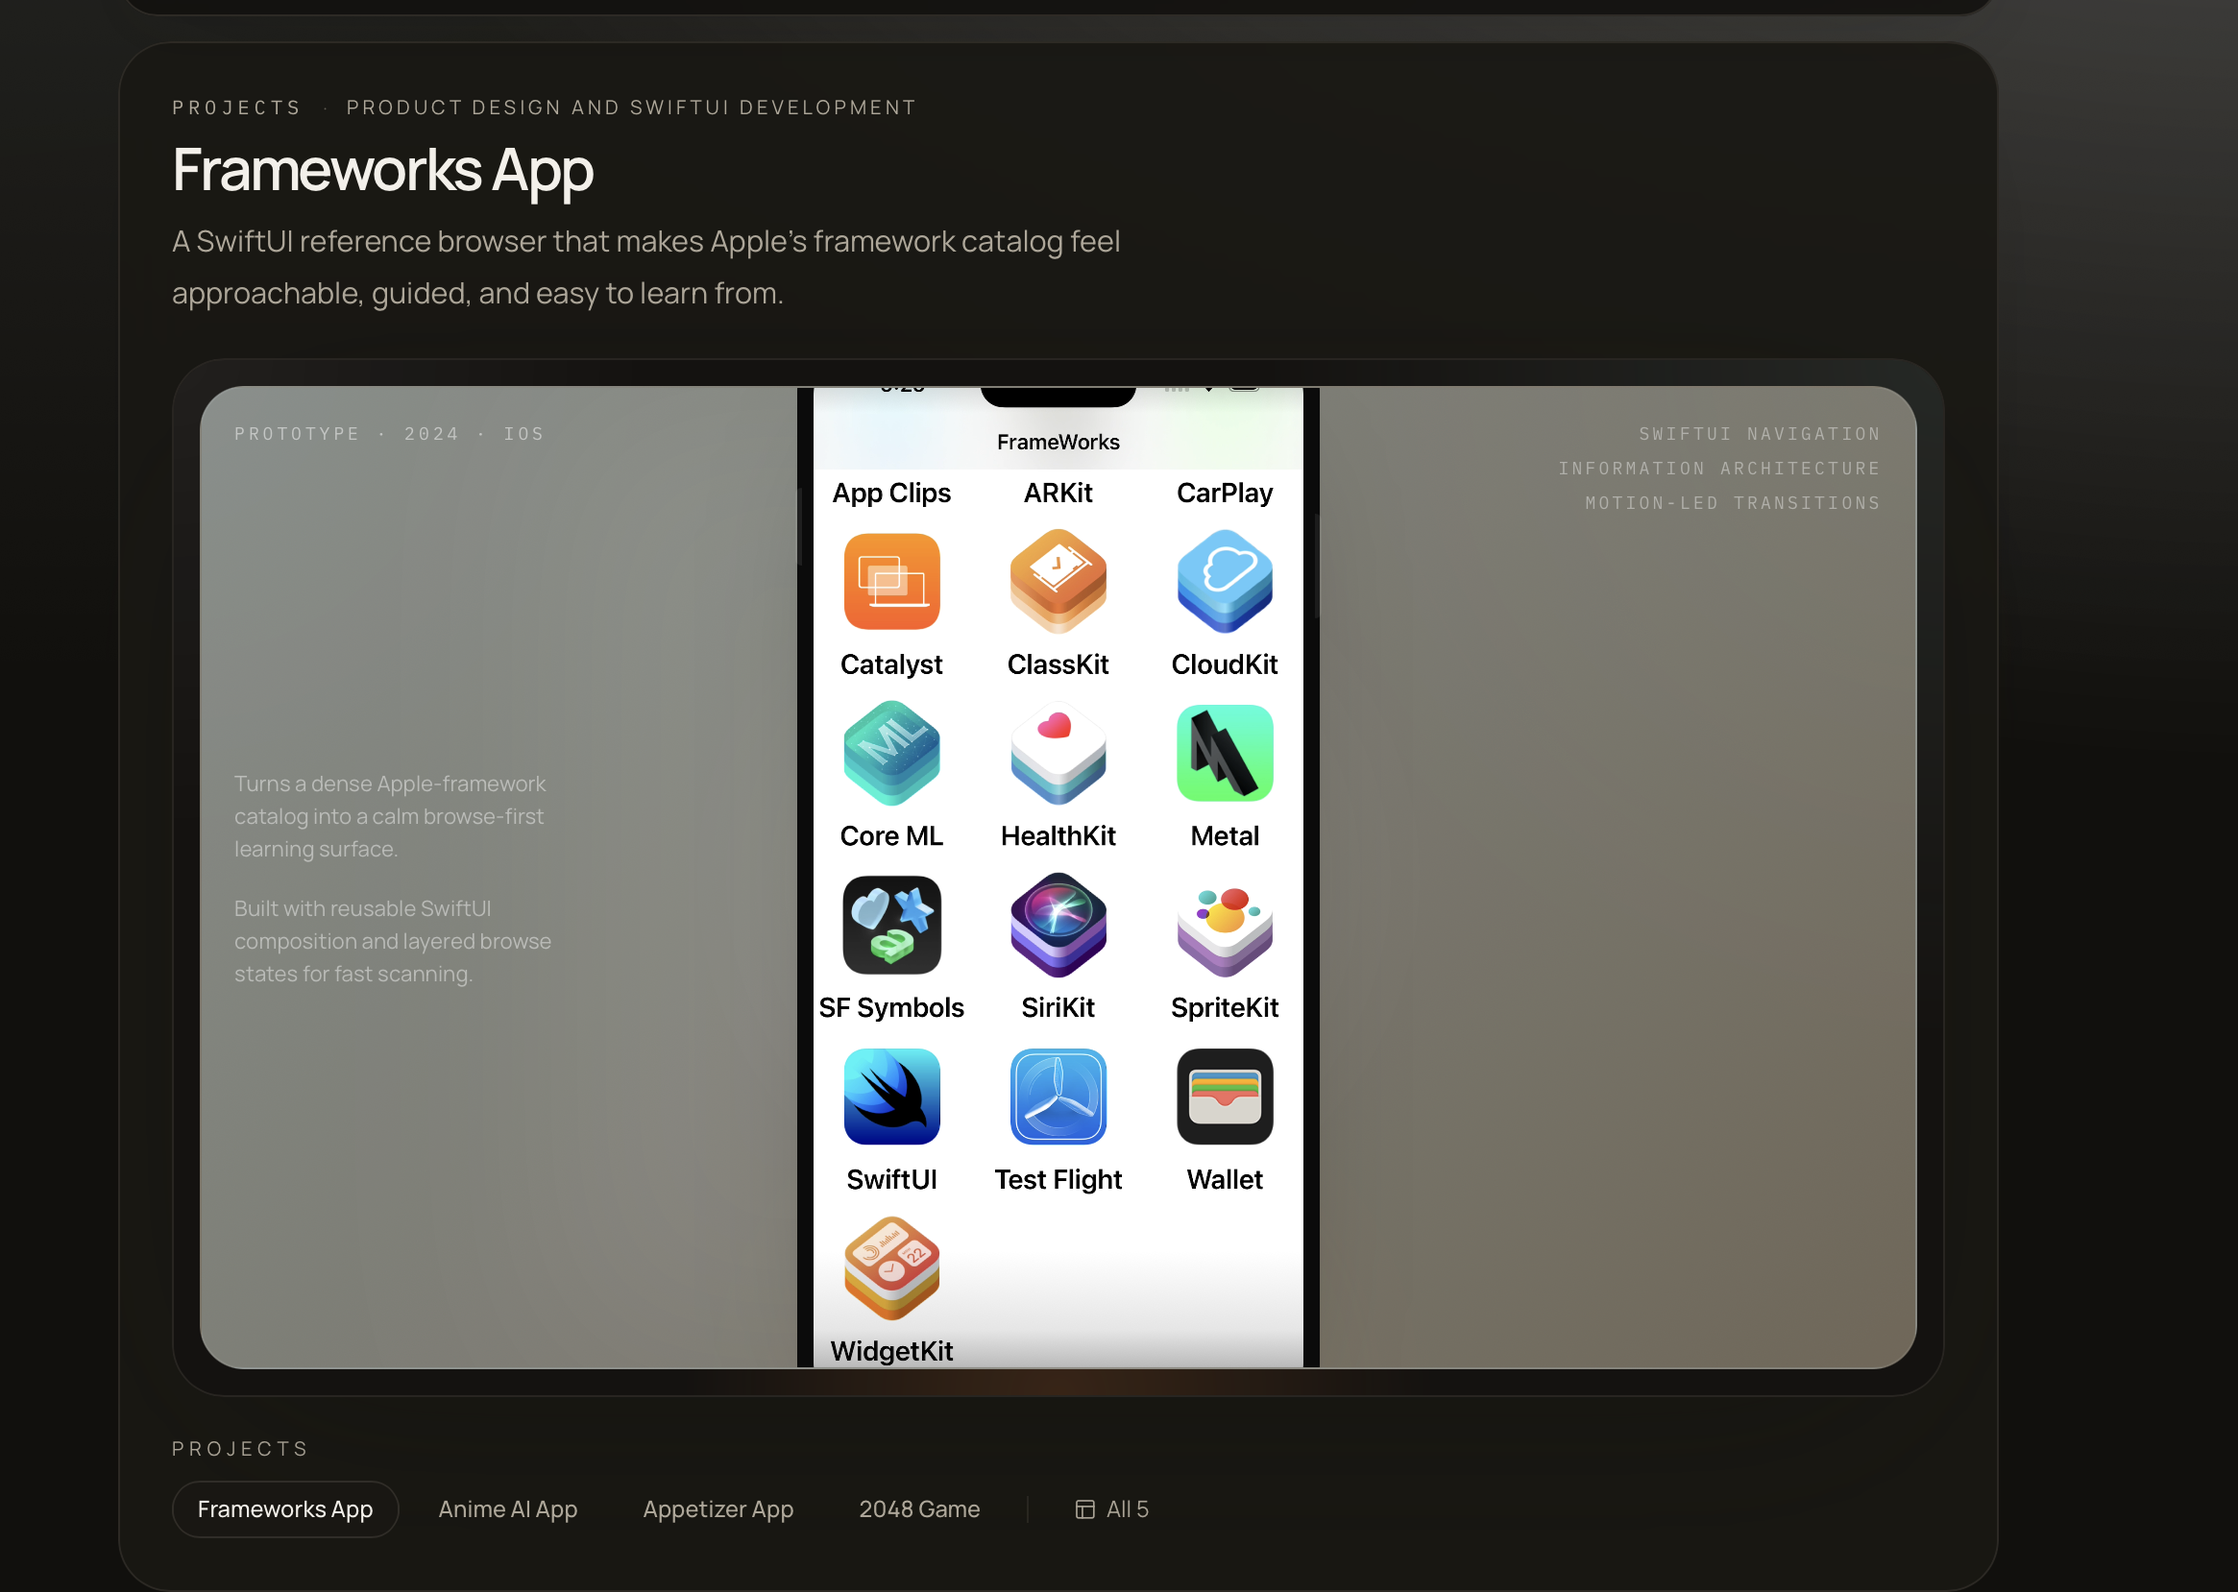
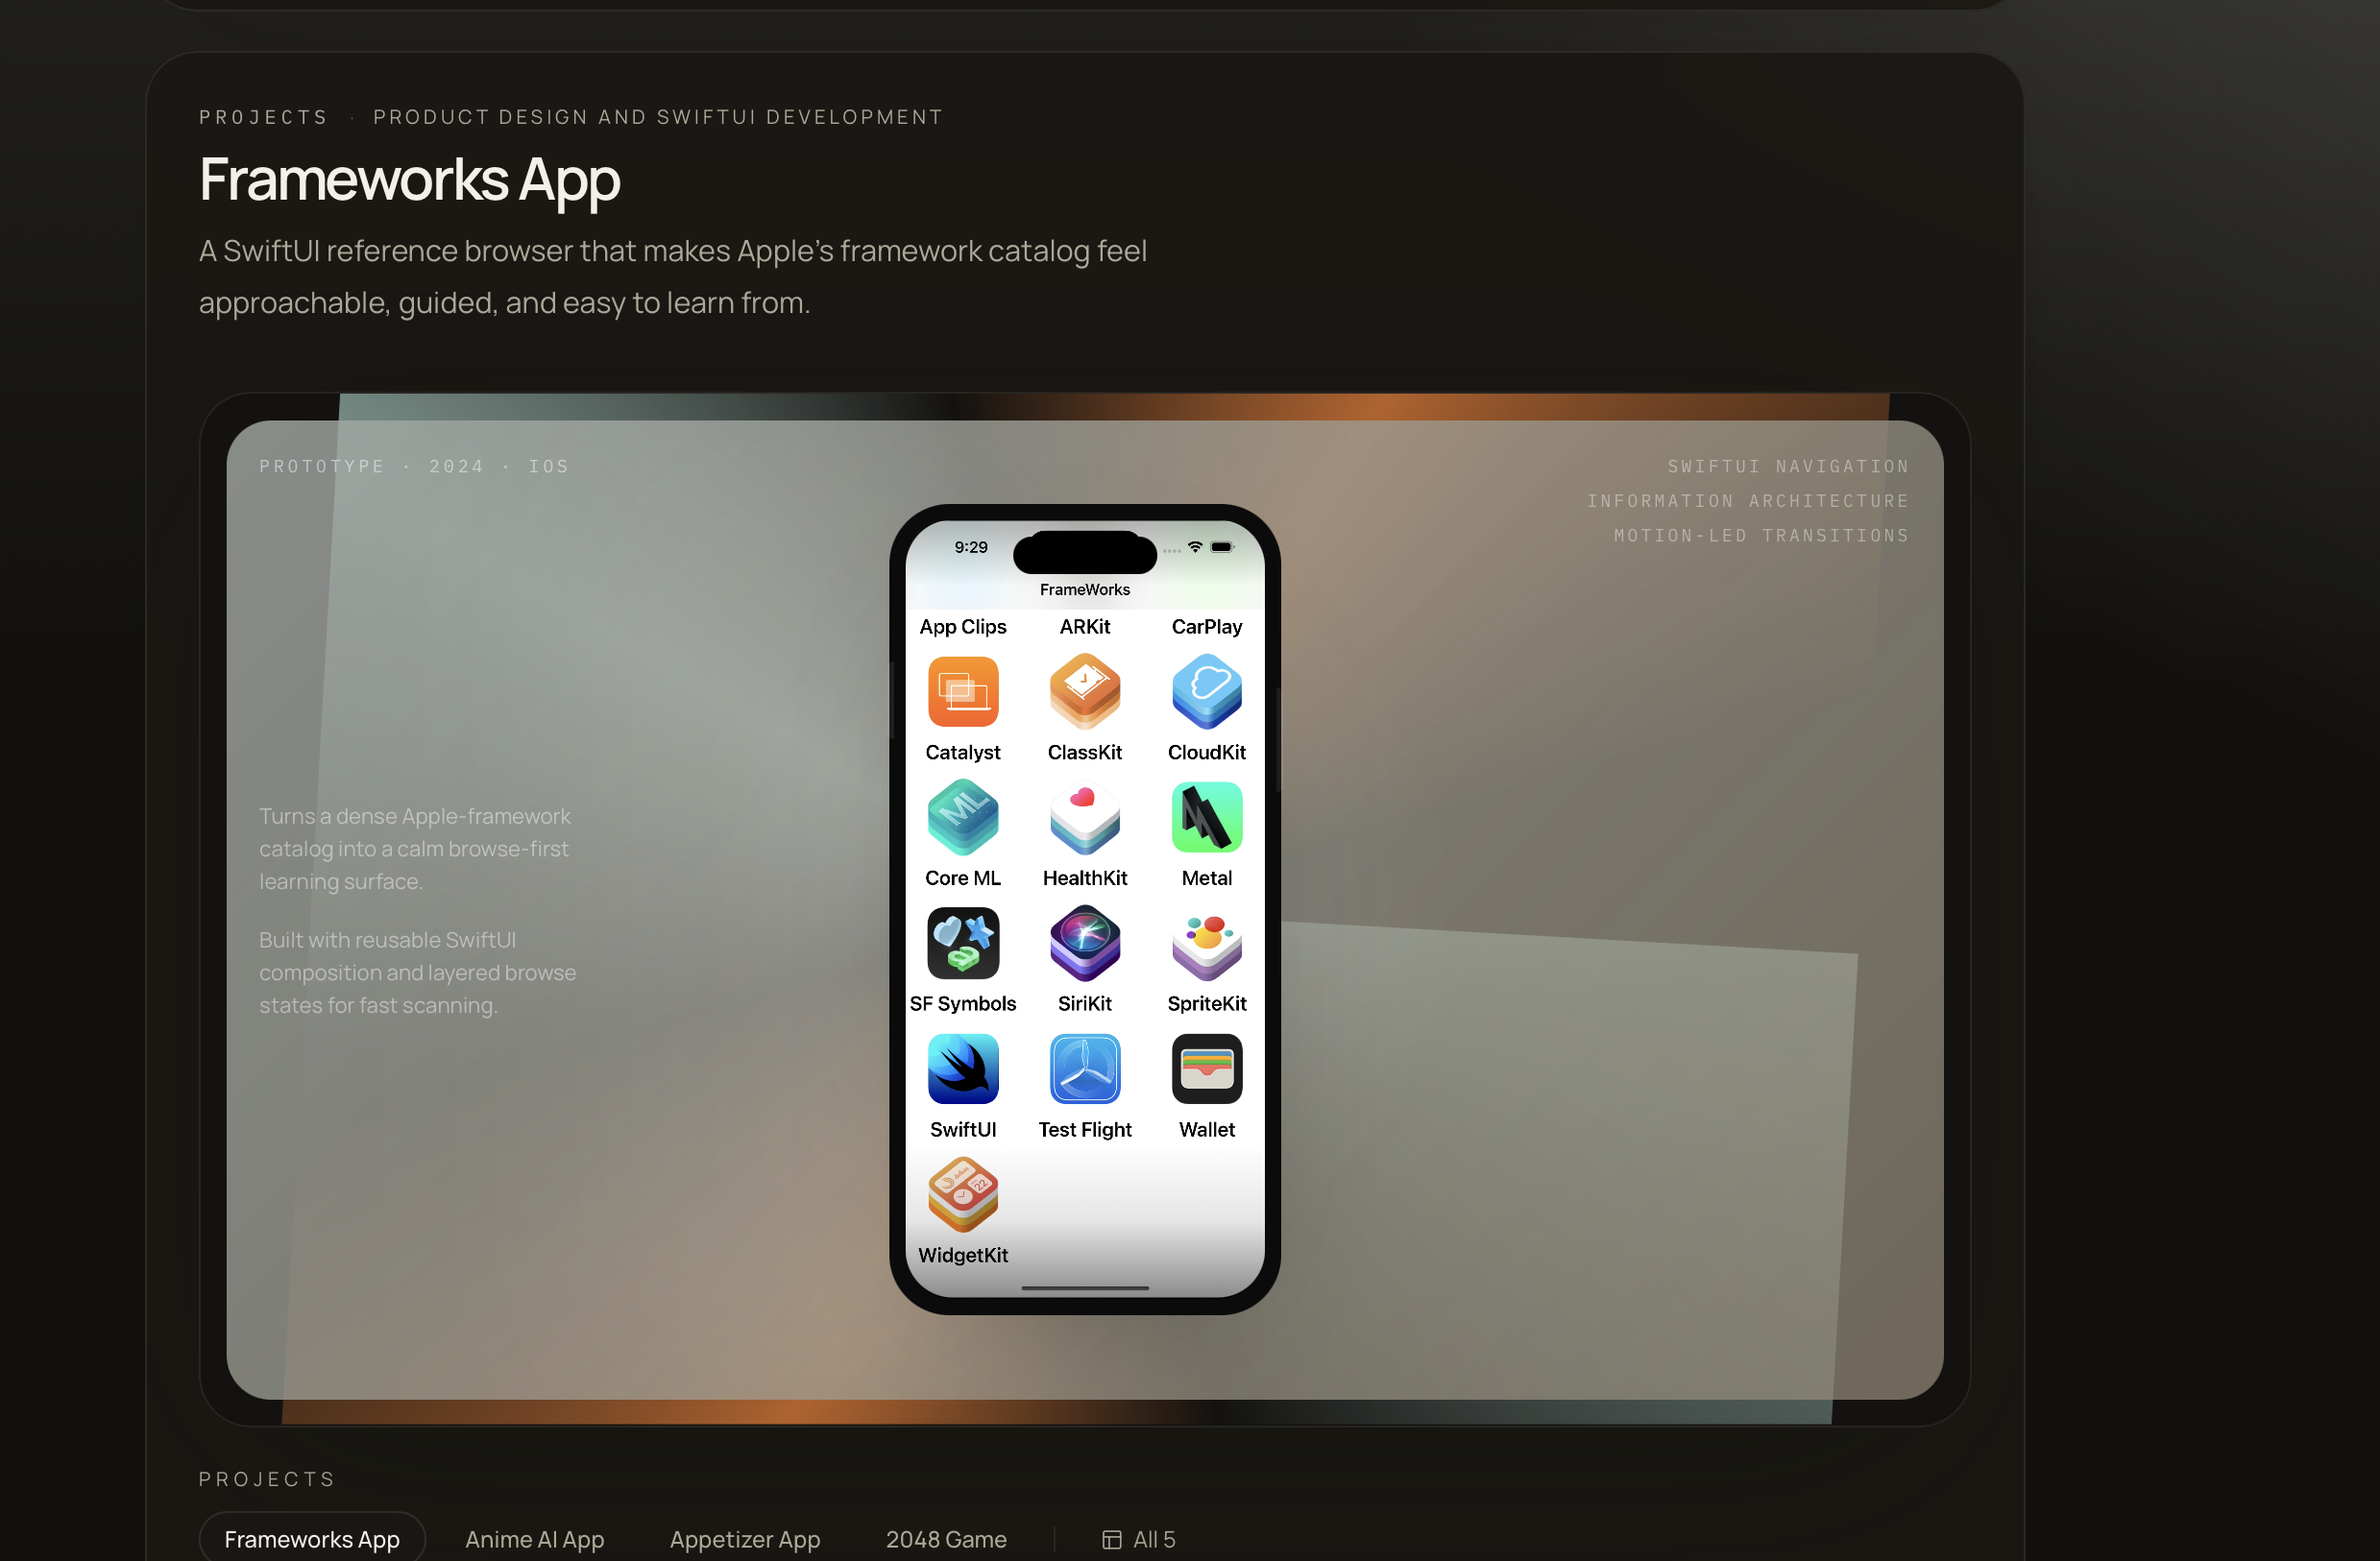
good gradient no animation

diff --git a/styles/globals.css b/styles/globals.css
@@ -167,6 +167,36 @@
   }
 }
 
+/* --- Animated border gradient for project preview --- */
+/* A conic gradient rotates behind the inner content.
+   The outer card clips it with overflow-hidden, and the
+   inner content covers the center — so the gradient only
+   shows through the padding gap, creating a glowing
+   animated border. Uses transform: rotate for GPU compositing. */
+
+@keyframes border-rotate {
+  0% { transform: translate(-50%, -50%) rotate(0deg); }
+  100% { transform: translate(-50%, -50%) rotate(360deg); }
+}
+
+.preview-border-glow {
+  width: 150%;
+  height: 150%;
+  background: conic-gradient(
+    from 0deg,
+    rgba(143, 179, 171, 0.8),
+    transparent 20%,
+    rgba(255, 129, 41, 0.7),
+    transparent 45%,
+    rgba(143, 179, 171, 0.8),
+    transparent 70%,
+    rgba(255, 129, 41, 0.7),
+    transparent 95%
+  );
+  animation: border-rotate 8s linear infinite;
+  will-change: transform;
+}
+
 @media (prefers-reduced-motion: reduce) {
   html {
     scroll-behavior: auto;

diff --git a/components/projects/featured-projects.tsx b/components/projects/featured-projects.tsx
@@ -49,7 +49,7 @@ export function FeaturedProjects({
 
   return (
     <div className="space-y-6">
-      <div className="h-[11.5rem] overflow-hidden sm:h-[9.5rem]">
+      <div className="h-[11rem] overflow-hidden sm:h-[9.5rem]">
         <AnimatePresence mode="wait">
           <motion.div
             key={activeProject.id}
